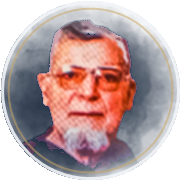
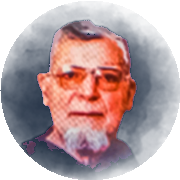
Simplify login portrait circle

diff --git a/frontend/src/pages/Login.js b/frontend/src/pages/Login.js
@@ -310,7 +310,7 @@ function Login() {
                 flex: '0 0 auto',
                 objectFit: 'contain',
                 borderRadius: '50%',
-                filter: 'drop-shadow(0 14px 18px rgba(15, 23, 42, 0.46)) drop-shadow(0 0 14px rgba(226, 232, 240, 0.18))',
+                filter: 'drop-shadow(0 10px 14px rgba(15, 23, 42, 0.34))',
                 opacity: 0.98
               }}
             />
